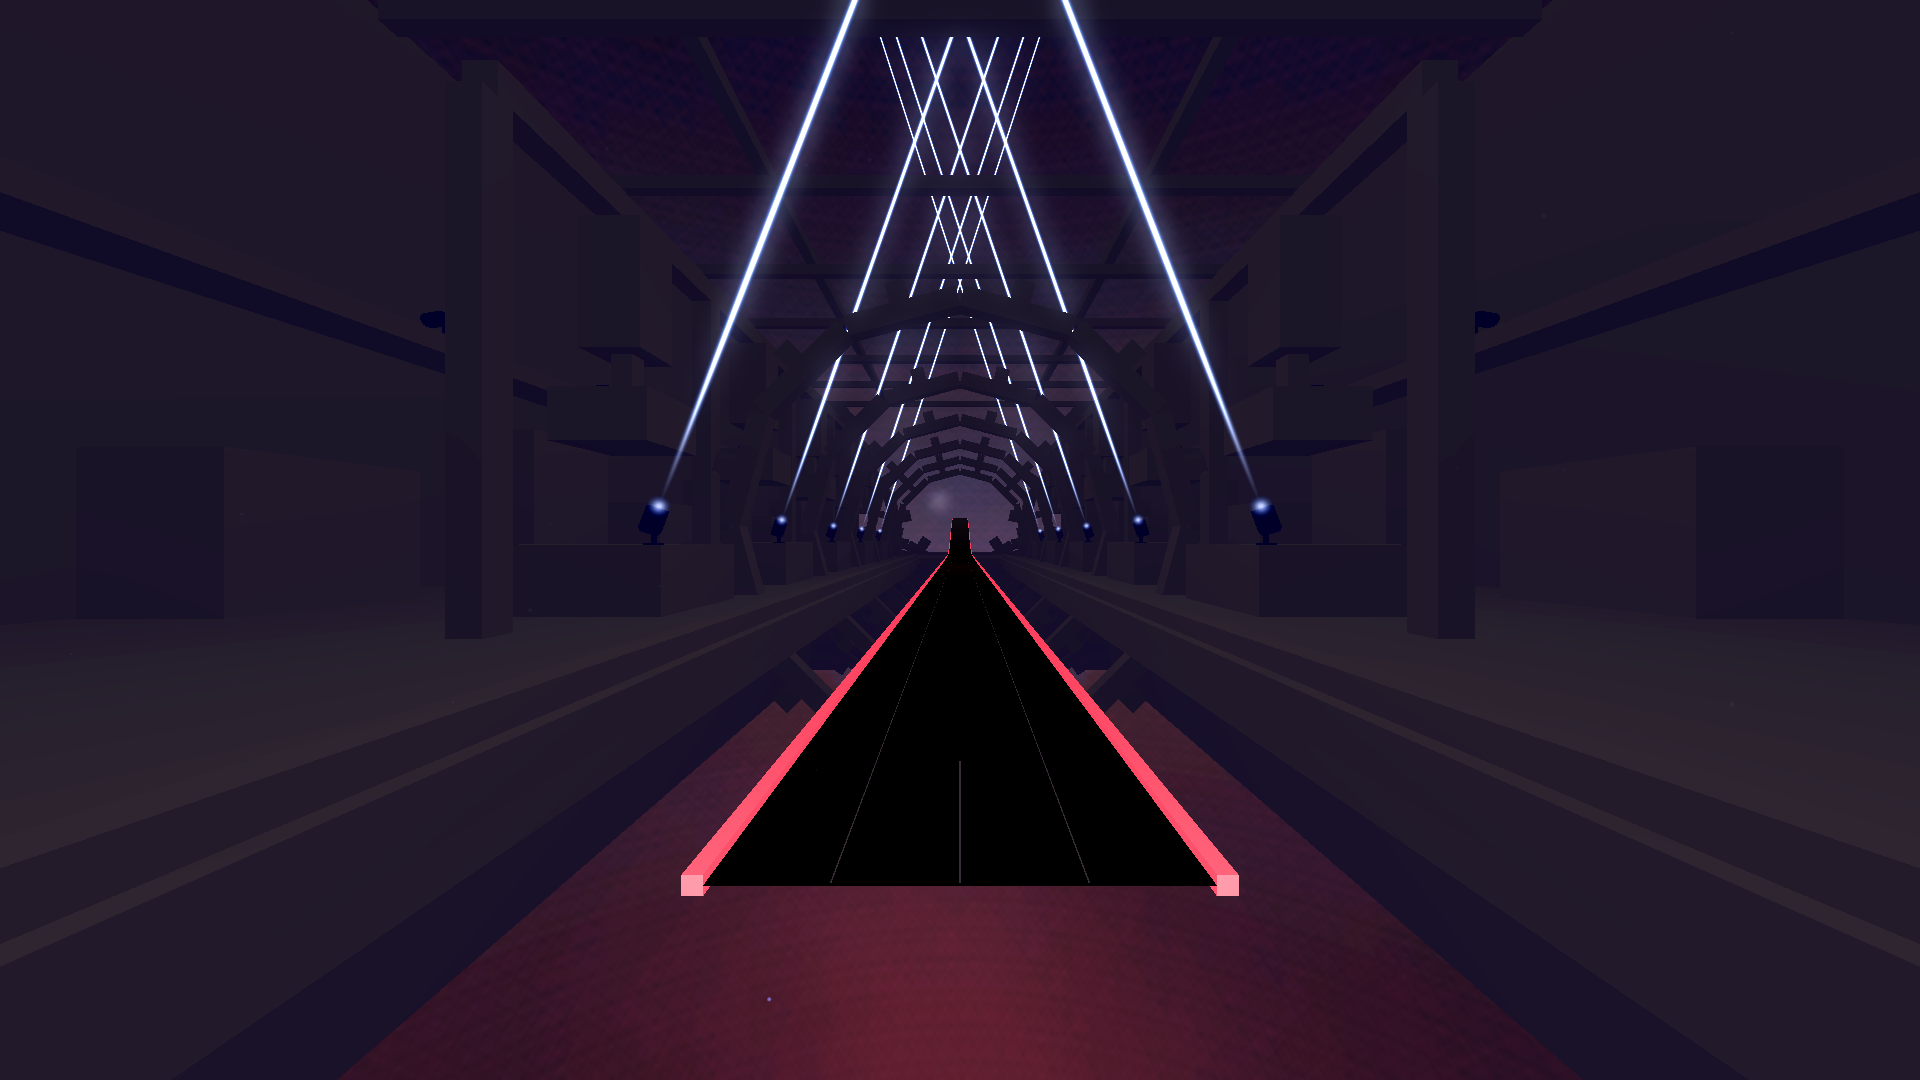
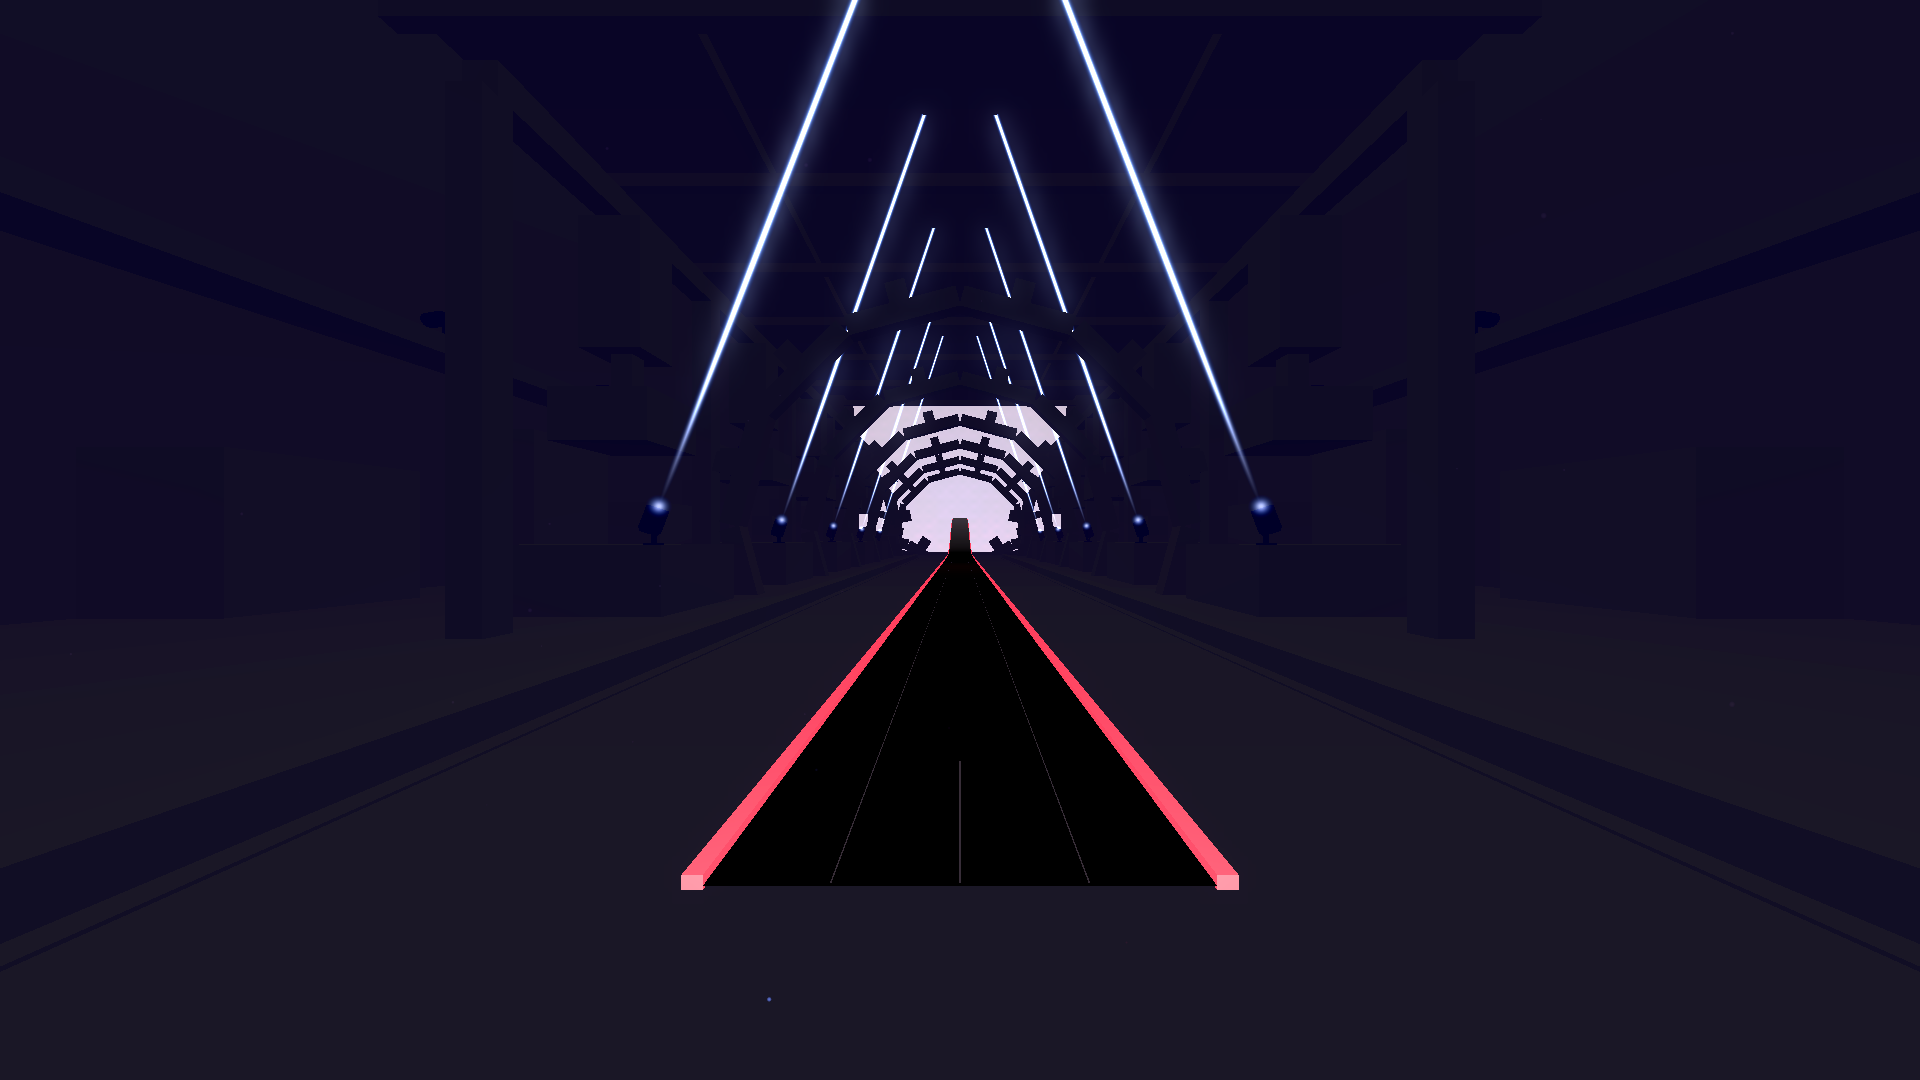
fix: Metal Factory hall closed overhead and kept near black
A solid ceiling slab on the walls, so no sky shows overhead (the hall is
underground), and the factory floor now runs under the track and the
player's platform, where the sky showed through as a bright pink strip.
The big wall and ceiling faces took the lights' full spill and read as grey
sheets; EnvSolid gets a per-material light_spill (1 by default, so the other
stages are unchanged) and the hall uses 0.3: wall luma in the lit eye capture
39 -> 29 of 255, lights off 24.

Changed region(s): [[0.1562, 0.6111, 0.7812, 1.0], [0.375, 0.275, 0.625, 0.5194], [0.4688, 0.0306, 0.5312, 0.275]]

diff --git a/doc/world/SPATIAL_LAYOUT.md b/doc/world/SPATIAL_LAYOUT.md
@@ -27,16 +27,20 @@ suite (`.claude/skills/rhythm-world-design/`).
 
 ## Environment layout (Metal Factory, blockout 2026-10-25)
 Plain boxes in `MetalFactoryRig.gd`, every size a named constant there; detail models still to come.
-- Factory floor: either side of the track from x ±3.6 to ±18, z 4 to -56 (top y 0), closing the gap past the
-  track's end (z -48); a pit beyond it to the foundation (z -66 to -70, top y 0).
+- Factory floor: either side of the track from x ±3.6 to ±18, z 4 to -56 (top y 0), and under the track and the
+  player's platform (top y -0.02), so no sky shows between or past them; a pit beyond it to the foundation
+  (z -66 to -70, top y 0).
 - Pistons: two rows at x ±8, z -12 to -44 every 8 m. Anvil 3.6 × 1.5 × 3.6 m; hammer 2.2 m, raised (bottom y 3.8);
   housing under a header beam at y 9, carried by posts at z -8 to -48 every 8 m.
 - Gear rings: around the track at z -15 to -55 every 8 m, centre y 2, radius 6.5 m (13 m across), 12 teeth,
   running down through the floor; inner edge 6.2 m from the centre.
 - Energy rails: x ±4, z 2 to -48, top y 0.3, 0.4 m wide; the square bars run as strips flush on top.
-- Machinery walls: solid at x ±18 to ±20, up to y 18, z 6 to -68; catwalk ledge along the inner face at x ±16, top
+- Machinery walls: solid at x ±18 to ±20, up to y 19, z 6 to -68; catwalk ledge along the inner face at x ±16, top
   y 8; machine blocks against the wall (x ±15) every 8 m from z -4 to -52, 5.5 and 3.5 m high in turn.
-- Ceiling truss: cross beams at y 18 every 8 m from z 0 to -64, two chords at x ±9.
+- Ceiling: a solid slab from y 19 to 20 resting on the walls, z 6 to -68, so no sky shows overhead (underground);
+  under it a truss of cross beams at y 18.1 every 8 m from z 0 to -64, two chords at x ±9.
+- The hall's faces take 0.3 of the lights' spill (`MetalFactoryRig.LIGHT_SPILL`, EnvSolid `light_spill`), so the
+  big walls and ceiling stay near black (eye capture, lights on: wall luma 39 → 29 of 255; lights off 24).
 - Drive gears at the far end, facing the player: radius 10 at x ±17, y 2, z -58 (half in the walls' end piers);
   radius 7.5 at x ±9, y -6, z -62 in the pit (top about y 2.7). Axles into the piers and foundation. The view straight
   ahead above the foundation stays open.
